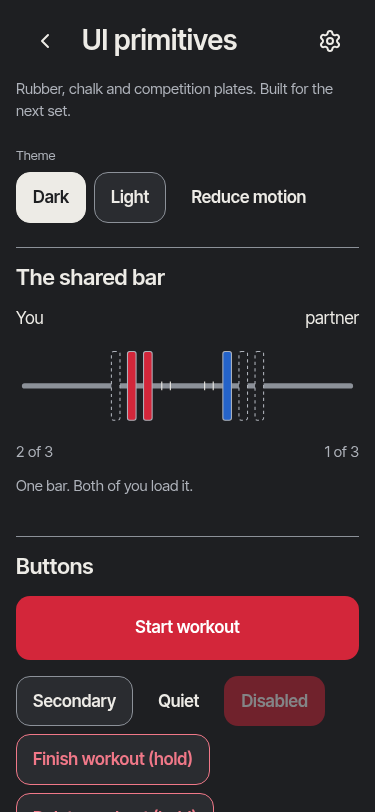
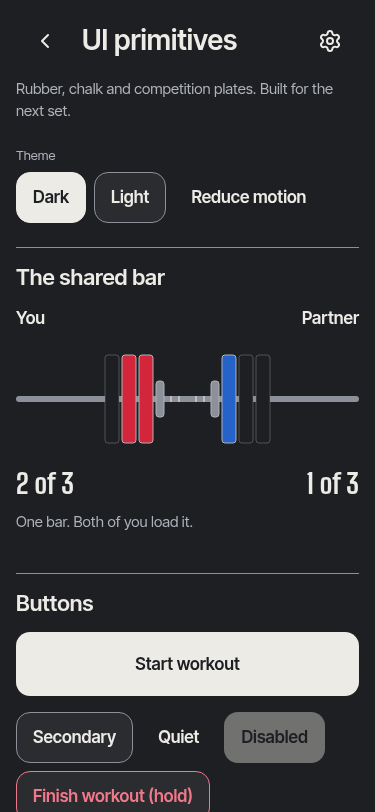
X1: give the shared bar weight and neutral primary buttons

diff --git a/src/ui/tokens.css b/src/ui/tokens.css
@@ -67,7 +67,8 @@
   --tier-obsidian: oklch(0.9402239586391736 0.007022164057397624 88.64413485918463); /* #EDEBE6 */
   --member-volt: oklch(0.5630527479724862 0.2053247616878064 21.795252933919564); /* #D3263A */
   --member-ice: oklch(0.5192939090997349 0.17119692918151216 260.03077639819065); /* #2563C9 */
-  --on-primary: oklch(1.0000000000000002 0 none); /* #FFFFFF */
+  --primary: oklch(0.9402239586391736 0.007022164057397624 88.64413485918463); /* #EDEBE6 */
+  --on-primary: oklch(0.2394745547998525 0.00589853968303904 271.1652166555608); /* #1E1F22 */
   --success-text: oklch(0.7628298368810807 0.012240676052095105 264.4946479982736); /* #AEB2BA */
   --partner-text: oklch(0.7983648394771569 0.07741450019739547 265.0484933004751); /* #A5BDF0 */
   /* Legacy semantic names keep the screen tickets compatible. Plate colours never change. */
@@ -106,6 +107,8 @@
 
 [data-theme='light'] {
   color-scheme: light;
+  --primary: oklch(0.2394745547998525 0.00589853968303904 271.1652166555608); /* #1E1F22 */
+  --on-primary: oklch(0.9402239586391736 0.007022164057397624 88.64413485918463); /* #EDEBE6 */
   --bg: oklch(0.9402239586391736 0.007022164057397624 88.64413485918463); /* #EDEBE6 */
   --surface-1: oklch(0.9645790630658888 0.00573603145712292 84.56628541195676); /* #F5F3EF */
   --surface-2: oklch(0.9645790630658888 0.00573603145712292 84.56628541195676); /* #F5F3EF */
@@ -212,7 +215,7 @@
     box-shadow: var(--elev-highlight);
   }
   .ui-button--primary {
-    background: var(--plate-red);
+    background: var(--primary);
     color: var(--on-primary);
   }
   .ui-button--secondary {
@@ -234,7 +237,7 @@
     outline-offset: -4px;
   }
   .ui-button:disabled {
-    opacity: 0.45;
+    opacity: 0.4;
     cursor: default;
   }
   .ui-stepper {
@@ -580,16 +583,17 @@
   .ui-segmented :disabled { opacity: 0.45; cursor: default; }
   .ui-plate-bar { min-width: 0; }
   .ui-plate-bar svg { display: block; width: 100%; height: auto; margin-block: var(--s-3); }
-  .ui-plate-bar__labels { display: flex; justify-content: space-between; gap: var(--s-4); }
+  .ui-plate-bar__labels { display: flex; justify-content: space-between; gap: var(--s-4); font-weight: 600; }
   .ui-plate-bar__labels > span { flex: 1; min-width: 0; overflow-wrap: anywhere; }
   .ui-plate-bar__labels > span:last-child { text-align: end; }
-  .ui-plate-bar__counts { color: var(--text-muted); font-size: var(--t-sm); }
-  .ui-plate-bar__shaft { stroke: var(--steel); stroke-width: 5; stroke-linecap: round; }
+  .ui-plate-bar__counts { color: var(--text); font: 600 var(--t-xl)/1.15 var(--font-number); font-variant-numeric: tabular-nums; }
+  .ui-plate-bar__shaft { stroke: var(--steel); stroke-width: 6; stroke-linecap: round; }
   .ui-plate-bar__grip { stroke: var(--text); stroke-width: 1; }
+  .ui-plate-bar__collar { fill: var(--steel); stroke: var(--text-muted); stroke-width: 1; }
   .ui-plate-bar__plate { stroke: var(--text-muted); stroke-width: 1; }
   .ui-plate-bar__plate--you { fill: var(--plate-red); }
   .ui-plate-bar__plate--partner { fill: var(--plate-blue); }
-  .ui-plate-bar__plate--empty { fill: var(--bg); stroke-dasharray: 3 3; }
+  .ui-plate-bar__plate--empty { fill: var(--bg); stroke: var(--steel); stroke-opacity: 0.45; }
   .ui-ring svg { max-width: 100%; height: auto; }
   .ui-gallery { gap: var(--s-5); }
   .ui-gallery > header p { margin: var(--s-3) 0 0; color: var(--text-muted); font-size: var(--t-sm); }

diff --git a/src/ui/PlateBar.tsx b/src/ui/PlateBar.tsx
@@ -1,7 +1,7 @@
 import { copy, fill } from './copy';
 
 export interface PlateBarMember {
-  name: string;
+  name?: string | null;
   credits: number;
   target: number;
   minCount?: number;
@@ -28,35 +28,43 @@ function plateStates(member: PlateBarMember): Array<'full' | 'min' | 'empty'> {
 
 /** Owner colour, side, thickness and a text alternative all carry the same information. */
 export function PlateBar({ members, className = '' }: PlateBarProps) {
-  const label = members.map((member) => fill(copy.x1PlateLabel, {
+  const namedMembers = members.map((member, index) => ({
+    ...member,
+    name: member.name?.trim() || (index === 0 ? copy.x1You : copy.x1Partner),
+  }));
+  const label = namedMembers.map((member) => fill(copy.x1PlateLabel, {
     name: member.name, credits: member.credits, target: member.target,
   })).join(copy.x1PlateSeparator);
   return <div className={`ui-plate-bar ${className}`} role="img" aria-label={label}>
     <div className="ui-plate-bar__labels" aria-hidden="true">
-      {members.map((member, index) => <span key={index}>{member.name}</span>)}
+      {namedMembers.map((member, index) => <span key={index}>{member.name}</span>)}
     </div>
-    <svg viewBox="0 0 320 80" aria-hidden="true" focusable="false">
-      <path d="M 8 40 H 312" className="ui-plate-bar__shaft" />
-      <path d="M 136 36 V 44 M 144 36 V 44 M 176 36 V 44 M 184 36 V 44" className="ui-plate-bar__grip" />
-      {members.map((member, side) => {
+    <svg viewBox="0 0 343 112" aria-hidden="true" focusable="false">
+      <path d="M 3 56 H 340" className="ui-plate-bar__shaft" />
+      <path d="M 155 53 V 59 M 163 53 V 59 M 180 53 V 59 M 188 53 V 59" className="ui-plate-bar__grip" />
+      <rect x={140} y={38} width={8} height={36} rx={3} className="ui-plate-bar__collar" />
+      <rect x={195} y={38} width={8} height={36} rx={3} className="ui-plate-bar__collar" />
+      {namedMembers.map((member, side) => {
         const states = plateStates(member);
-        const gap = Math.min(15, 105 / Math.max(1, states.length));
+        // Keep the 3px gaps; exceptionally dense MIN weeks narrow the plates to fit.
+        const pitch = Math.min(17, 119 / states.length);
+        const width = pitch - 3;
         return <g key={side} data-side={side === 0 ? 'you' : 'partner'}>
           {states.map((state, index) => <rect
             key={index}
             data-plate={state}
-            x={side === 0 ? 119 - index * gap : 193 + index * gap}
-            y={state === 'min' ? 15 : 8}
-            width={state === 'min' ? 4 : 8}
-            height={state === 'min' ? 50 : 64}
-            rx={2}
+            x={side === 0 ? 137 - width - index * pitch : 206 + index * pitch}
+            y={state === 'min' ? 28 : 12}
+            width={width}
+            height={state === 'min' ? 56 : 88}
+            rx={3}
             className={`ui-plate-bar__plate ui-plate-bar__plate--${side === 0 ? 'you' : 'partner'} ui-plate-bar__plate--${state}`}
           />)}
         </g>;
       })}
     </svg>
     <div className="ui-plate-bar__labels ui-plate-bar__counts" aria-hidden="true">
-      {members.map((member, index) => <span key={index}>{fill(copy.x1PlateCount, {
+      {namedMembers.map((member, index) => <span key={index}>{fill(copy.x1PlateCount, {
         credits: member.credits, target: member.target,
       })}</span>)}
     </div>

diff --git a/tests/unit/ui/PlateBar.test.tsx b/tests/unit/ui/PlateBar.test.tsx
@@ -13,7 +13,7 @@ it('announces each person and shows separate owner sides with empty capacity', (
   expect(container.querySelectorAll('[data-plate="empty"]')).toHaveLength(3);
 });
 
-it('keeps two MINs thin even when their combined credits make a whole session', () => {
+it('keeps two MINs distinct even when their combined credits make a whole session', () => {
   const { container } = render(<PlateBar members={[
     { name: 'You', credits: 2, minCount: 2, target: 3 },
     { name: 'Partner', credits: 1.5, minCount: 3, target: 3 },
@@ -21,8 +21,37 @@ it('keeps two MINs thin even when their combined credits make a whole session', 
   expect(container.querySelectorAll('[data-side="you"] [data-plate="full"]')).toHaveLength(1);
   expect(container.querySelectorAll('[data-side="you"] [data-plate="min"]')).toHaveLength(2);
   expect(container.querySelectorAll('[data-side="partner"] [data-plate="min"]')).toHaveLength(3);
-  expect(container.querySelector('[data-plate="min"]')?.getAttribute('width')).toBe('4');
-  expect(container.querySelector('[data-plate="full"]')?.getAttribute('width')).toBe('8');
+  expect(container.querySelector('[data-plate="min"]')?.getAttribute('height')).toBe('56');
+  expect(container.querySelector('[data-plate="full"]')?.getAttribute('height')).toBe('88');
+});
+
+it('uses supplied display names and capitalised fallbacks for missing or blank names', () => {
+  const view = render(<PlateBar members={[
+    { credits: 2, target: 3 }, { name: '  ', credits: 1, target: 3 },
+  ]} />);
+  expect(screen.getByRole('img', { name: 'You 2 of 3, Partner 1 of 3' })).toBeTruthy();
+  view.rerender(<PlateBar members={[
+    { name: 'Lifter One', credits: 2, target: 3 }, { name: 'Lifter Two', credits: 1, target: 3 },
+  ]} />);
+  expect(screen.getByRole('img', { name: 'Lifter One 2 of 3, Lifter Two 1 of 3' })).toBeTruthy();
+});
+
+it('stacks plates outward from each collar, with matching empty slots', () => {
+  const { container } = render(<PlateBar members={[
+    { credits: 2, target: 3 }, { credits: 1, target: 3 },
+  ]} />);
+  for (const side of ['you', 'partner']) {
+    const plates = [...container.querySelectorAll(`[data-side="${side}"] rect`)];
+    const positions = plates.map((plate) => Number(plate.getAttribute('x')));
+    expect(positions[0]).toBe(side === 'you' ? 123 : 206);
+    expect(positions[1]! - positions[0]!).toBe(side === 'you' ? -17 : 17);
+    for (const plate of plates) {
+      expect(plate.getAttribute('width')).toBe('14');
+      expect(plate.getAttribute('height')).toBe('88');
+      expect(plate.getAttribute('rx')).toBe('3');
+    }
+  }
+  expect(container.querySelectorAll('.ui-plate-bar__collar')).toHaveLength(2);
 });
 
 it('caps plates at capacity while keeping extra credits in the alternative', () => {

diff --git a/tests/unit/ui/tokens.contrast.test.tsx b/tests/unit/ui/tokens.contrast.test.tsx
@@ -29,6 +29,10 @@ it('preserves the R2 palette in both themes', () => {
   expect(formatHex(colour(light, 'text'))).toBe(palette.rubber);
   expect(formatHex(colour(light, 'bg'))).toBe(palette.chalk);
   expect(formatHex(colour(dark, 'text'))).toBe(palette.chalk);
+  expect(formatHex(colour(dark, 'primary'))).toBe(palette.chalk);
+  expect(formatHex(colour(dark, 'on-primary'))).toBe(palette.rubber);
+  expect(formatHex(colour(light, 'primary'))).toBe(palette.rubber);
+  expect(formatHex(colour(light, 'on-primary'))).toBe(palette.chalk);
 });
 
 // Fixed plate colours are decorative fills. Text uses AA ink or a contrasting label.
@@ -40,7 +44,7 @@ for (const [name, theme] of Object.entries({ dark, light })) {
       for (const background of ['bg', 'surface-1', 'surface-2', 'surface-3']) pairs.push([ink, background, 4.5]);
     }
     pairs.push(
-      ['on-primary', 'plate-red', 4.5], ['rubber', 'plate-yellow', 4.5],
+      ['on-primary', 'primary', 4.5], ['rubber', 'plate-yellow', 4.5],
       ['on-molten', 'molten', 4.5], ['bg', 'text', 4.5],
       ['line', 'bg', 3], ['line', 'surface-2', 3],
     );

diff --git a/src/ui/copy.ts b/src/ui/copy.ts
@@ -607,6 +607,8 @@ On 200, REPLACE my whole SPOTTER section (past days can be edited or deleted). N
   // ── H7: add this ticket's strings directly below ──
   rackItName: 'RACK IT, hold to rack it.',
   // ── X1: R2 foundation ──
+  x1You: 'You',
+  x1Partner: 'Partner',
   x1ThisWeek: 'This week',
   x1WeekComplete: 'Week complete',
   x1RingRow: '{credits} of {target}, {mins} MIN',
@@ -616,7 +618,7 @@ On 200, REPLACE my whole SPOTTER section (past days can be edited or deleted). N
   x1PlateLabel: '{name} {credits} of {target}',
   x1PlateSeparator: ', ',
   x1PlateCount: '{credits} of {target}',
-  x1ThinPlate: 'Thin plates count a MIN: half a session.',
+  x1ThinPlate: 'Short plates count a MIN: half a session.',
   x1Step: 'Step ±{step}',
   x1Back: 'Go back',
   x1Header: 'Screen header',

diff --git a/src/ui/DevUi.tsx b/src/ui/DevUi.tsx
@@ -23,8 +23,8 @@ function Gallery() {
     action: { label: copy.undo, onClick: () => { showToast({ message: copy.undone }); } },
   });
   const members = [
-    { name: copy.ringYou, credits: 2, target: 3 },
-    { name: copy.ringPartner, credits: 1, target: 3 },
+    { name: copy.x1You, credits: 2, target: 3 },
+    { name: copy.x1Partner, credits: 1, target: 3 },
   ] as const;
   const ringMembers = members.map((member, index) => ({
     ...member, id: String(index), initial: member.name.slice(0, 1).toUpperCase(),
